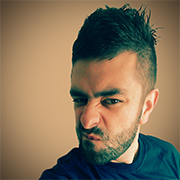
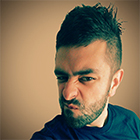
image optimisation, added ga

diff --git a/_layouts/default.html b/_layouts/default.html
@@ -74,9 +74,15 @@
         {{ content }}
       </div>
         {% include footer.html %}
+      <script>
+          (function(i,s,o,g,r,a,m){i['GoogleAnalyticsObject']=r;i[r]=i[r]||function(){
+              (i[r].q=i[r].q||[]).push(arguments)},i[r].l=1*new Date();a=s.createElement(o),
+                  m=s.getElementsByTagName(o)[0];a.async=1;a.src=g;m.parentNode.insertBefore(a,m)
+          })(window,document,'script','//www.google-analytics.com/analytics.js','ga');
 
-        <!-- build:js(app) /scripts/scripts.js -->
-        <!--<script src="/scripts/main.js"></script>-->
-        <!-- endbuild -->
+          ga('create', 'UA-58911427-1', 'auto');
+          ga('send', 'pageview');
+
+      </script>
     </body>
 </html>
